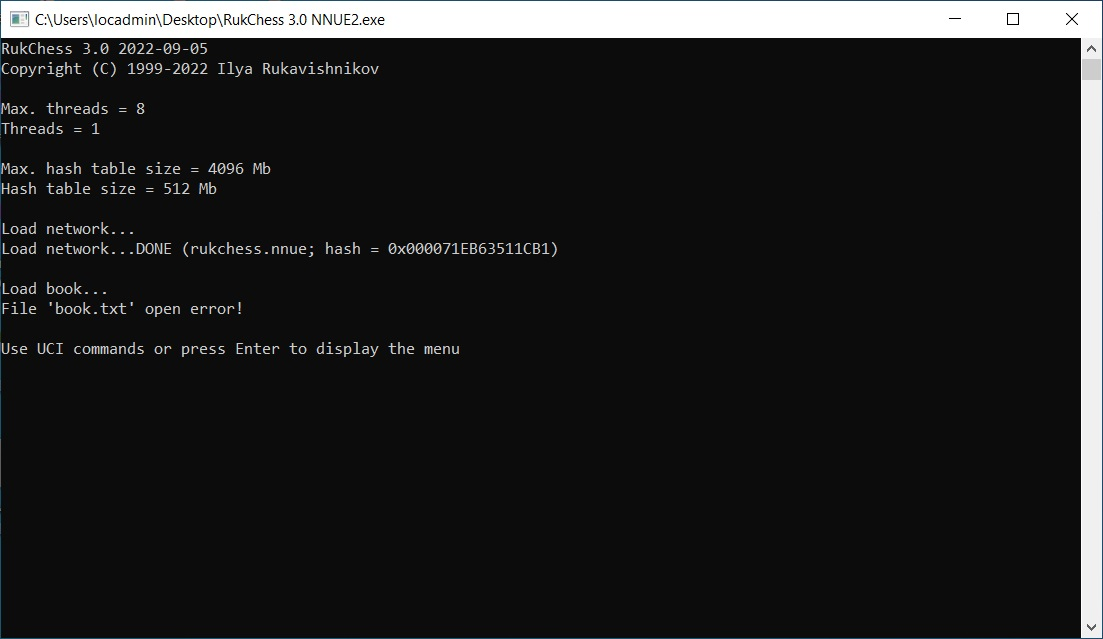
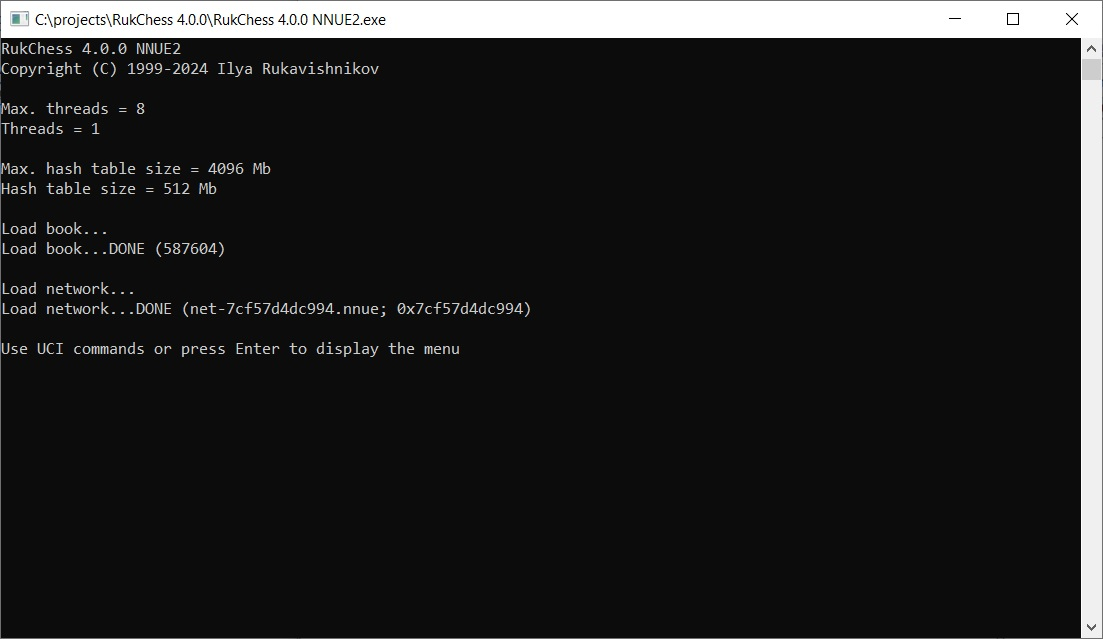
Corrected the code

diff --git a/Move.cpp b/Move.cpp
@@ -245,12 +245,12 @@ void MakeMove(BoardItem* Board, const MoveItem Move)
     Board->Hash ^= ColorHash;
 
 #ifdef DEBUG_HASH
-    U64 OriginalHash = Board->Hash;
+    U64 PreviousHash = Board->Hash;
 
     InitHash(Board);
 
-    if (Board->Hash != OriginalHash) {
-        printf("-- Board hash error! BoardHash = 0x%016llx OriginalHash = 0x%016llx\n", Board->Hash, OriginalHash);
+    if (Board->Hash != PreviousHash) {
+        printf("-- Board hash error! BoardHash = 0x%016llx PreviousHash = 0x%016llx\n", Board->Hash, PreviousHash);
     }
 #endif // DEBUG_HASH
 
@@ -465,12 +465,12 @@ void MakeNullMove(BoardItem* Board)
     Board->Hash ^= ColorHash;
 
 #ifdef DEBUG_HASH
-    U64 OriginalHash = Board->Hash;
+    U64 PreviousHash = Board->Hash;
 
     InitHash(Board);
 
-    if (Board->Hash != OriginalHash) {
-        printf("-- Board hash error! BoardHash = 0x%016llx OriginalHash = 0x%016llx\n", Board->Hash, OriginalHash);
+    if (Board->Hash != PreviousHash) {
+        printf("-- Board hash error! BoardHash = 0x%016llx PreviousHash = 0x%016llx\n", Board->Hash, PreviousHash);
     }
 #endif // DEBUG_HASH
 }

diff --git a/Def.h b/Def.h
@@ -74,7 +74,7 @@
 // Program name, program version, evaluation function name and copyright information
 
 #define PROGRAM_NAME                            "RukChess"
-#define PROGRAM_VERSION                         "4.0.0dev"
+#define PROGRAM_VERSION                         "4.0.0"
 
 /*
     https://github.com/Ilya-Ruk/RukChessTrainer

diff --git a/README.md b/README.md
@@ -1,33 +1,25 @@
 # RukChess
-Chess engine with console interface, UCI support and several evaluation functions (including NNUE).
+Chess engine with console interface, UCI support and NNUE evaluation function.
 
 # Inspiration
-In 1999, I came across the source code for a chess program (which is now available at https://www.ioccc.org/years.html#1992_vern) and I became interested in understanding how a computer could play chess. More than 20 years have passed since then, but in my code you can still find a line of code from that program:
+In 1999, I came across the source code of a chess program (now available at https://www.ioccc.org/years.html#1992_vern) and became interested in understanding how a computer could play chess. More than 25 years have passed since then, and many new things have appeared, including NNUE.
 
-original code (vern.orig.c, line 175)
-
-    s{ } ?"!":">"
-
-current implementation (Game.cpp, line 956)
-
-    InCheck ? '!' : '>'
-
-# Console (terminal) User Interface (TUI)
-
+# Console (Terminal) User Interface (TUI)
 ![print_screen_1](resources/print_screen_1.jpg)
 ![print_screen_2](resources/print_screen_2.jpg)
 ![print_screen_3](resources/print_screen_3.jpg)
 ![print_screen_4](resources/print_screen_4.jpg)
+![print_screen_5](resources/print_screen_5.jpg)
 
 # Graphical User Interface (GUI)
 1. [Arena Chess GUI](http://www.playwitharena.de/)
 2. [Cute Chess](https://cutechess.com/)
 
-# Web User Interface (Web UI)
+# Web User Interface (WebUI)
 1. [RukChessWeb](https://github.com/Ilya-Ruk/RukChessWeb)
 
 # Strength
-For RukChess 3.0.18 PVS NNUE2 with the net-7cf57d4dc994.nnue (in release) the strength is approximately 3237 ELO.
+For RukChess 3.0.19 PVS NNUE2 with the net-7cf57d4dc994.nnue (in release) the strength is approximately 3262 ELO.
 
 # Rating
 https://computerchess.org.uk/ccrl/4040/cgi/compare_engines.cgi?family=RukChess&print=Rating+list&print=Results+table&print=LOS+table&print=Ponder+hit+table&print=Eval+difference+table&print=Comopp+gamenum+table&print=Overlap+table&print=Score+with+common+opponents
